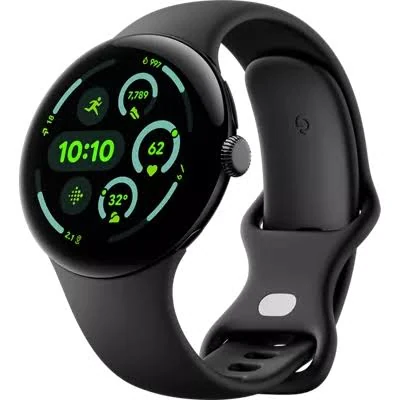
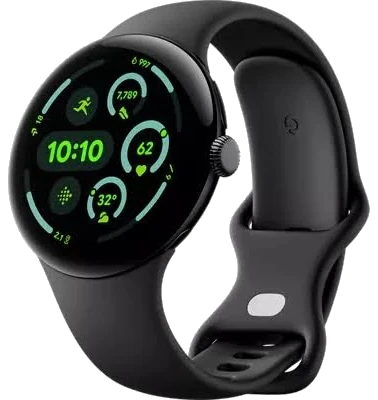
polish(devices): transparent cutout product photos and unified tonal featured cards
- Remove solid black/white backgrounds from realmegt6, pixelwatch3, and pixel3 WebP images with clean edge-decontaminated alpha matting
- Add soft drop-shadow on transparent device cutouts in DeviceCard media stage
- Replace half-occluded inset outline on featured DeviceCard, GameCard, and ProjectCard with pure MD3E tonal surface tint

diff --git a/src/components/molecules/DeviceCard.svelte b/src/components/molecules/DeviceCard.svelte
@@ -133,6 +133,7 @@ const showImage = $derived(Boolean(device.image) && !coverFailed);
 @import "../../styles/breakpoints.styl"
 
 .device-card
+	position: relative
 	display: flex
 	flex-direction: column
 	overflow: hidden
@@ -147,15 +148,15 @@ const showImage = $derived(Boolean(device.image) && !coverFailed);
 	&:hover
 		box-shadow: var(--m3e-elevation-2)
 		transform: translateY(-2px)
-		background: unquote("color-mix(in oklab, var(--on-surface) 2%, var(--card-bg))")
+		background: unquote("color-mix(in oklab, var(--on-surface) 2%, var(--nested-card-bg, var(--card-bg)))")
 
-	/* 主力推荐特色高亮：纯色调微光描影（不混用 Outlined 硬边框） */
+	/* 主力推荐特色高亮：纯色调微升（无半截硬描边） */
 	&--featured
-		box-shadow: inset 0 0 0 1.5px unquote("color-mix(in oklab, var(--primary) 32%, transparent)"), var(--m3e-elevation-1)
+		background: unquote("color-mix(in oklab, var(--primary) 5%, var(--nested-card-bg, var(--card-bg)))")
 		&:hover
-			box-shadow: inset 0 0 0 1.5px unquote("color-mix(in oklab, var(--primary) 55%, transparent)"), var(--m3e-elevation-2)
+			background: unquote("color-mix(in oklab, var(--primary) 8%, var(--nested-card-bg, var(--card-bg)))")
 
-	/* 媒体区：设备图 object-contain，浅色调渐变背景衬底，任何宽度不拉伸 */
+	/* 媒体区：透明设备图 object-contain + 柔和投影，融入浅色调渐变舞台 */
 	&__media
 		display: flex
 		align-items: center
@@ -165,8 +166,8 @@ const showImage = $derived(Boolean(device.image) && !coverFailed);
 		flex-shrink: 0
 		overflow: hidden
 		background: linear-gradient(160deg,
-			unquote("color-mix(in oklab, var(--primary) 12%, var(--surface-container-low))"),
-			var(--surface-container-high))
+			unquote("color-mix(in oklab, var(--primary) 10%, var(--surface-container-low))"),
+			unquote("color-mix(in oklab, var(--primary) 4%, var(--surface-container))"))
 
 		> img
 			display: block
@@ -176,6 +177,7 @@ const showImage = $derived(Boolean(device.image) && !coverFailed);
 			height: auto
 			object-fit: contain
 			padding: var(--m3e-space-3)
+			filter: drop-shadow(0 6px 14px rgba(0, 0, 0, 0.2))
 			transition: transform var(--m3e-duration-long) var(--m3e-easing-emphasized-decelerate)
 
 			.device-card:hover &

diff --git a/src/components/molecules/ProjectCard.svelte b/src/components/molecules/ProjectCard.svelte
@@ -167,13 +167,13 @@ const showCover = $derived(Boolean(project.cover) && !coverFailed);
 	&:hover
 		box-shadow: var(--m3e-elevation-2)
 		transform: translateY(-2px)
-		background: unquote("color-mix(in oklab, var(--on-surface) 2%, var(--card-bg))")
+		background: unquote("color-mix(in oklab, var(--on-surface) 2%, var(--nested-card-bg, var(--card-bg)))")
 
-	/* 代表项目特色高亮：色调内阴影 */
+	/* 代表项目特色高亮：纯色调微升 */
 	&--featured
-		box-shadow: inset 0 0 0 1.5px unquote("color-mix(in oklab, var(--primary) 32%, transparent)"), var(--m3e-elevation-1)
+		background: unquote("color-mix(in oklab, var(--primary) 5%, var(--nested-card-bg, var(--card-bg)))")
 		&:hover
-			box-shadow: inset 0 0 0 1.5px unquote("color-mix(in oklab, var(--primary) 55%, transparent)"), var(--m3e-elevation-2)
+			background: unquote("color-mix(in oklab, var(--primary) 8%, var(--nested-card-bg, var(--card-bg)))")
 
 	/* 封面：16/9 稳定比例锁高，图片永远按 cover 裁切，杜绝纵向拉伸 */
 	&__cover

diff --git a/src/components/molecules/GameCard.svelte b/src/components/molecules/GameCard.svelte
@@ -176,12 +176,12 @@ const ratingLabel = $derived(
 	&:hover
 		box-shadow: var(--m3e-elevation-2)
 		transform: translateY(-2px)
-		background: unquote("color-mix(in oklab, var(--on-surface) 2%, var(--card-bg))")
+		background: unquote("color-mix(in oklab, var(--on-surface) 2%, var(--nested-card-bg, var(--card-bg)))")
 
 	&--featured
-		box-shadow: inset 0 0 0 1.5px unquote("color-mix(in oklab, var(--tertiary) 36%, transparent)"), var(--m3e-elevation-1)
+		background: unquote("color-mix(in oklab, var(--tertiary) 5%, var(--nested-card-bg, var(--card-bg)))")
 		&:hover
-			box-shadow: inset 0 0 0 1.5px unquote("color-mix(in oklab, var(--tertiary) 62%, transparent)"), var(--m3e-elevation-2)
+			background: unquote("color-mix(in oklab, var(--tertiary) 8%, var(--nested-card-bg, var(--card-bg)))")
 
 	/* ── 横幅：16:9 横屏封面主视觉 ── */
 	&__banner
